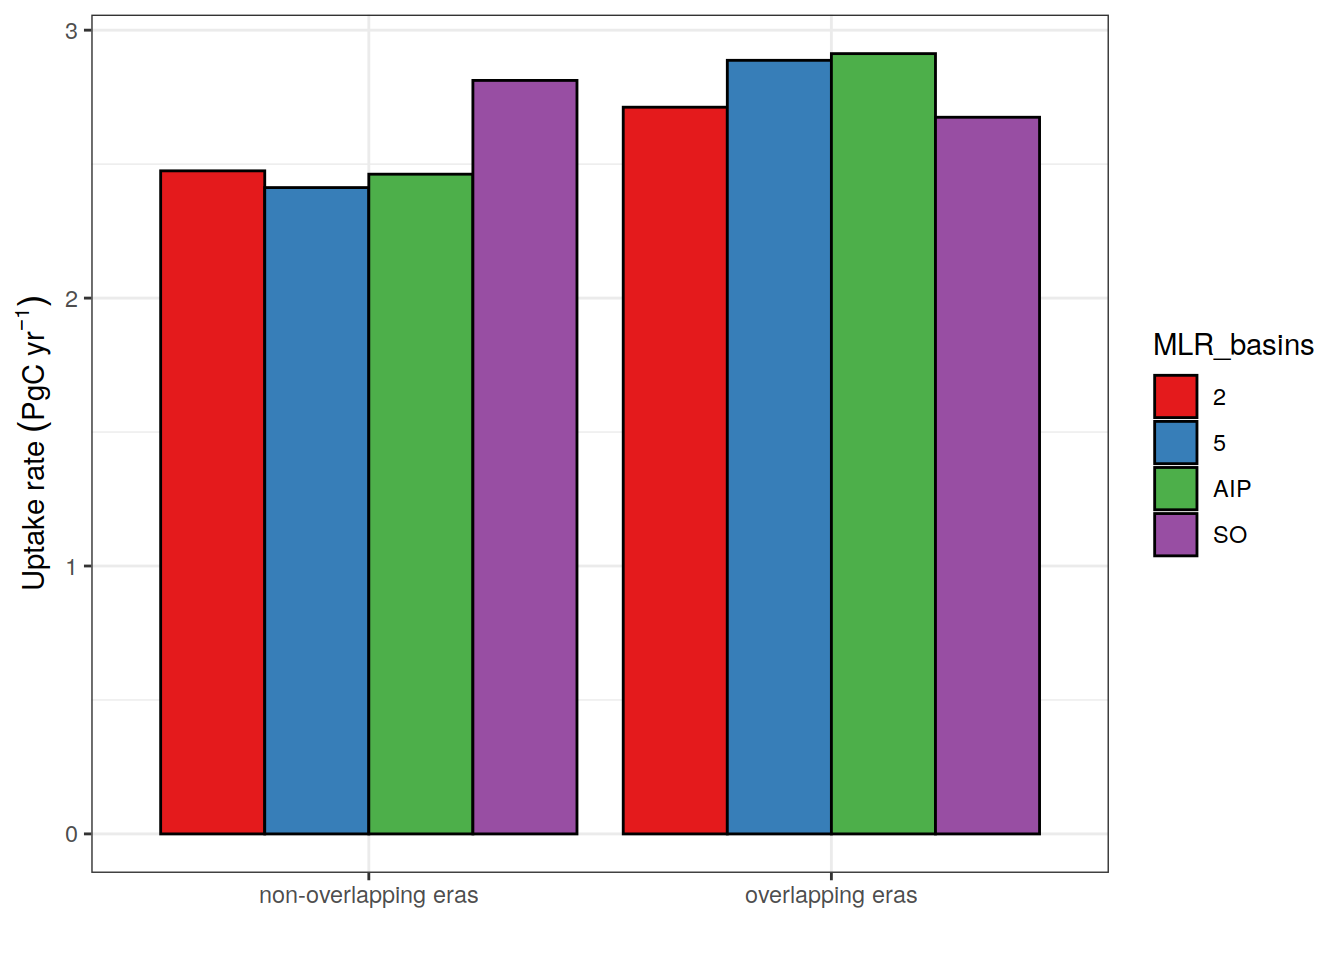
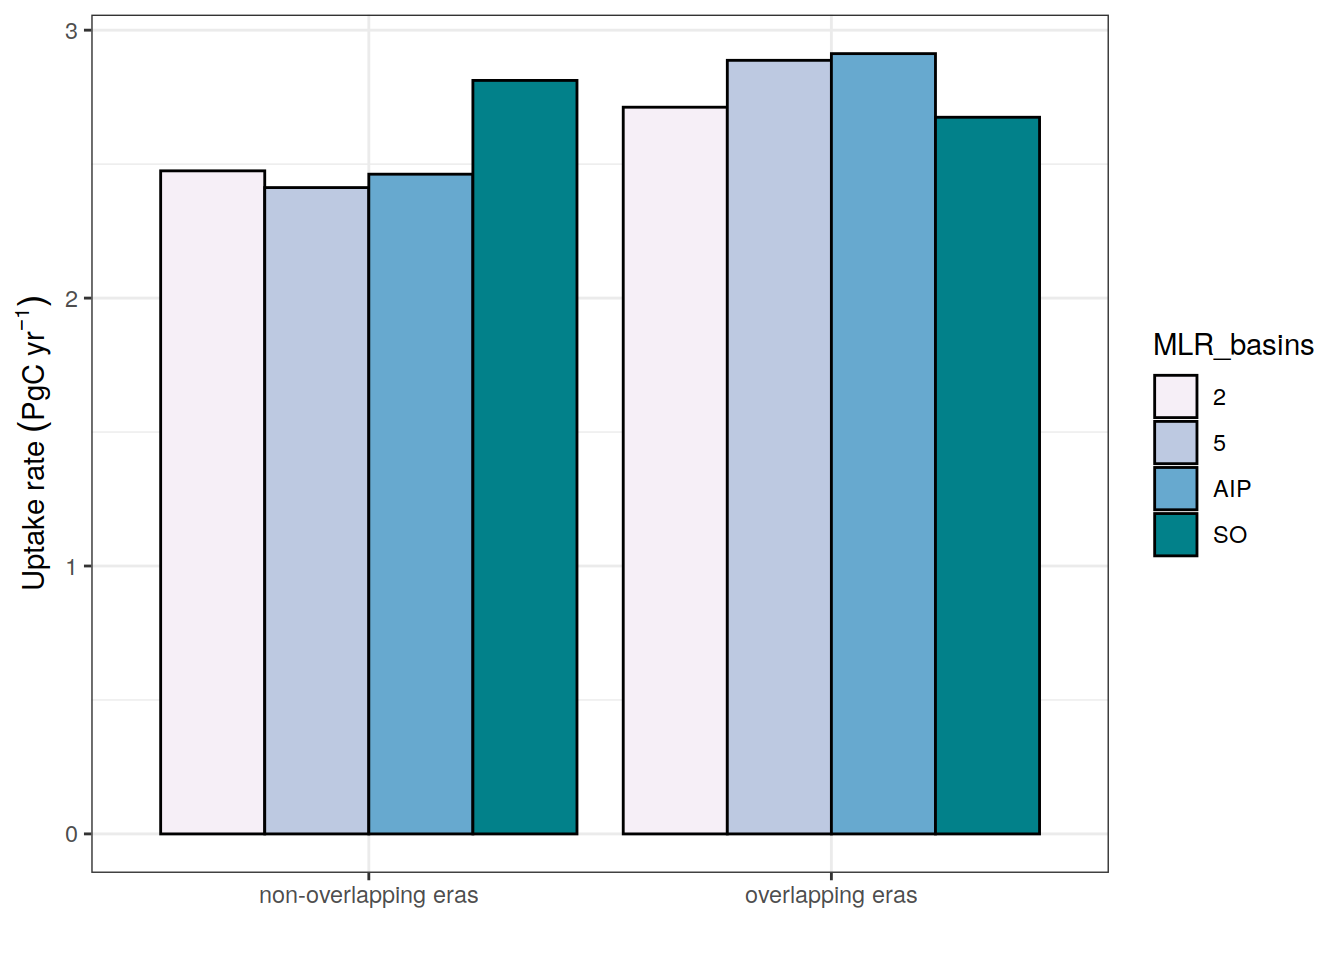
Build site.

diff --git a/docs/column_inventories.html b/docs/column_inventories.html
@@ -545,16 +545,16 @@ This reproducible <a href="http://rmarkdown.rstudio.com">R Markdown</a> analysis
 <div class="panel panel-default">
 <div class="panel-heading">
 <p class="panel-title">
-<a data-toggle="collapse" data-parent="#workflowr-checks" href="#strongRepositoryversionstrongahrefhttpsgithubcomjensdanielmuelleremlrobsanalysistree1b46b2aaad76d55915e740a46f77a5c0535a9dd0targetblank1b46b2aa"> <span class="glyphicon glyphicon-ok text-success" aria-hidden="true"></span> <strong>Repository version:</strong> <a href="https://github.com/jens-daniel-mueller/emlr_obs_analysis/tree/1b46b2aaad76d55915e740a46f77a5c0535a9dd0" target="_blank">1b46b2a</a> </a>
+<a data-toggle="collapse" data-parent="#workflowr-checks" href="#strongRepositoryversionstrongahrefhttpsgithubcomjensdanielmuelleremlrobsanalysistree2f6d0c08097d0d47375c1b2fe1197846e31bec86targetblank2f6d0c0a"> <span class="glyphicon glyphicon-ok text-success" aria-hidden="true"></span> <strong>Repository version:</strong> <a href="https://github.com/jens-daniel-mueller/emlr_obs_analysis/tree/2f6d0c08097d0d47375c1b2fe1197846e31bec86" target="_blank">2f6d0c0</a> </a>
 </p>
 </div>
[2 lines of base64/hex data omitted]
 <div class="panel-body">
 <p>
 Great! You are using Git for version control. Tracking code development and connecting the code version to the results is critical for reproducibility.
 </p>
 <p>
-The results in this page were generated with repository version <a href="https://github.com/jens-daniel-mueller/emlr_obs_analysis/tree/1b46b2aaad76d55915e740a46f77a5c0535a9dd0" target="_blank">1b46b2a</a>. See the <em>Past versions</em> tab to see a history of the changes made to the R Markdown and HTML files.
+The results in this page were generated with repository version <a href="https://github.com/jens-daniel-mueller/emlr_obs_analysis/tree/2f6d0c08097d0d47375c1b2fe1197846e31bec86" target="_blank">2f6d0c0</a>. See the <em>Past versions</em> tab to see a history of the changes made to the R Markdown and HTML files.
 </p>
 <p>
 Note that you need to be careful to ensure that all relevant files for the analysis have been committed to Git prior to generating the results (you can use <code>wflow_publish</code> or <code>wflow_git_commit</code>). workflowr only checks the R Markdown file, but you know if there are other scripts or data files that it depends on. Below is the status of the Git repository when the results were generated:
@@ -607,6 +607,40 @@ Message
 </tr>
 </thead>
 <tbody>
+<tr>
+<td>
+Rmd
+</td>
+<td>
+<a href="https://github.com/jens-daniel-mueller/emlr_obs_analysis/blob/2f6d0c08097d0d47375c1b2fe1197846e31bec86/analysis/column_inventories.Rmd" target="_blank">2f6d0c0</a>
+</td>
+<td>
+jens-daniel-mueller
+</td>
+<td>
+2021-05-28
+</td>
+<td>
+including cases 109-116
+</td>
+</tr>
+<tr>
+<td>
+html
+</td>
+<td>
+<a href="https://rawcdn.githack.com/jens-daniel-mueller/emlr_obs_analysis/3454b72a2fbb7bffc0c166de3e53036c71587a8d/docs/column_inventories.html" target="_blank">3454b72</a>
+</td>
+<td>
+jens-daniel-mueller
+</td>
+<td>
+2021-05-28
+</td>
+<td>
+Build site.
+</td>
+</tr>
 <tr>
 <td>
 Rmd
@@ -903,18 +937,13 @@ sensitivity case comparison included
 </div>
 </div>
 </div>
-<div id="data-sources" class="section level1" number="1">
-<h1 number="1"><span class="header-section-number">1</span> Data sources</h1>
-<p>Following Cant estimates are used:</p>
-<ul>
-<li>Zonal mean (basin, lat, depth)</li>
-<li>Inventories (lat, lon)</li>
-</ul>
+<div id="load-data" class="section level1" number="1">
+<h1 number="1"><span class="header-section-number">1</span> Load data</h1>
 <pre class="r"><code>Version_IDs &lt;- list.files(
   path = &quot;/nfs/kryo/work/jenmueller/emlr_cant/observations&quot;,
   pattern = &quot;v_1&quot;)
 
-Version_IDs &lt;- Version_IDs[1:8]
+# Version_IDs &lt;- Version_IDs[1:8]
 
 for (i_Version_IDs in Version_IDs) {
   # i_Version_IDs &lt;- Version_IDs[1]
@@ -950,7 +979,10 @@ for (i_Version_IDs in Version_IDs) {
   params_local &lt;- bind_cols(
     Version_ID = i_Version_IDs,
     MLR_basins = params_local$MLR_basins,
-    dup_era1 = str_c(params_local$dup_era1, collapse = &quot;-&quot;)
+    dup_era1 = str_c(params_local$dup_era1, collapse = &quot;-&quot;),
+    MLR_target = params_local$MLR_target,
+    CANYON_B_max = params_local$CANYON_B_max,
+    vif_max = params_local$vif_max
   )
   
   cant_inv &lt;- full_join(cant_inv, params_local)
@@ -981,7 +1013,15 @@ for (i_Version_IDs in Version_IDs) {
 [1] &quot;v_105&quot;
 [1] &quot;v_106&quot;
 [1] &quot;v_107&quot;
-[1] &quot;v_108&quot;</code></pre>
+[1] &quot;v_108&quot;
+[1] &quot;v_109&quot;
+[1] &quot;v_110&quot;
+[1] &quot;v_111&quot;
+[1] &quot;v_112&quot;
+[1] &quot;v_113&quot;
+[1] &quot;v_114&quot;
+[1] &quot;v_115&quot;
+[1] &quot;v_116&quot;</code></pre>
 <pre class="r"><code>rm(cant_inv)
 
 cant_inv_all &lt;- cant_inv_all %&gt;% 
@@ -990,13 +1030,59 @@ cant_inv_all &lt;- cant_inv_all %&gt;%
 <pre class="r"><code>cant_inv_all &lt;- cant_inv_all %&gt;%
   filter(inv_depth == params_global$inventory_depth_standard)</code></pre>
 <pre class="r"><code>cant_inv_all_bias &lt;- cant_inv_all %&gt;%
-  select(lat, lon, data_source, Version_ID, era_duplication, MLR_basins, cant_inv) %&gt;%
+  select(lat, lon, data_source, cant_inv, Version_ID, 
+         era_duplication, MLR_basins,
+         MLR_target, CANYON_B_max, vif_max) %&gt;%
   pivot_wider(names_from = data_source,
               values_from = cant_inv) %&gt;%
   mutate(cant_bias = mod - mod_truth) %&gt;%
-  drop_na()
+  drop_na()</code></pre>
+<pre class="r"><code>cant_inv_budget &lt;- cant_inv_all %&gt;% 
+  mutate(surface_area = earth_surf(lat, lon),
+         cant_inv_grid = cant_inv*surface_area,
+         cant_pos_inv_grid = cant_pos_inv*surface_area) %&gt;% 
+  group_by(basin_AIP, data_source,
+           Version_ID, MLR_basins,
+           era_duplication, duration,
+           MLR_target, CANYON_B_max, vif_max) %&gt;% 
+  summarise(cant_total = sum(cant_inv_grid)*12*1e-15,
+            cant_total = round(cant_total,1),
+            cant_pos_total = sum(cant_pos_inv_grid)*12*1e-15,
+            cant_pos_total = round(cant_pos_total,1)) %&gt;% 
+  ungroup()
 
-cant_inv_all_bias %&gt;%
+cant_inv_budget %&gt;%
+  group_by(data_source, Version_ID) %&gt;%
+  summarise(cant_total = sum(cant_total),
+            cant_total = round(cant_total,1),
+            cant_pos_total = sum(cant_pos_total),
+            cant_pos_total = round(cant_pos_total,1),
+            cant_total_rate = cant_total / duration,
+            cant_pos_total_rate = cant_pos_total / duration) %&gt;%
+  ungroup()</code></pre>
+<pre><code># A tibble: 144 x 6
+   data_source Version_ID cant_total cant_pos_total cant_total_rate
+   &lt;chr&gt;       &lt;chr&gt;           &lt;dbl&gt;          &lt;dbl&gt;           &lt;dbl&gt;
+ 1 mod         v_101            14.3           16              1.79
+ 2 mod         v_101            14.3           16              1.79
+ 3 mod         v_101            14.3           16              1.79
+ 4 mod         v_102            19.2           20.3            2.4 
+ 5 mod         v_102            19.2           20.3            2.4 
+ 6 mod         v_102            19.2           20.3            2.4 
+ 7 mod         v_103            18.8           20.1            2.35
+ 8 mod         v_103            18.8           20.1            2.35
+ 9 mod         v_103            18.8           20.1            2.35
+10 mod         v_104            17.2           18              2.15
+# … with 134 more rows, and 1 more variable: cant_pos_total_rate &lt;dbl&gt;</code></pre>
+</div>
+<div id="mlr-regions-and-era-overlap" class="section level1" number="2">
+<h1 number="2"><span class="header-section-number">2</span> MLR regions and era overlap</h1>
+<div id="column-inventories" class="section level2" number="2.1">
+<h2 number="2.1"><span class="header-section-number">2.1</span> Column inventories</h2>
+<pre class="r"><code>cant_inv_all_bias_sub &lt;- cant_inv_all_bias %&gt;%
+  filter(Version_ID %in% Version_IDs[1:8])
+
+cant_inv_all_bias_sub %&gt;% 
   p_map_cant_inv(var = &quot;obs&quot;,
                  col = &quot;divergent&quot;,
                  subtitle_text = &quot;data_source: observations&quot;) +
@@ -1083,7 +1169,7 @@ jens-daniel-mueller
 </table>
 </div>
 </div>
-<pre class="r"><code>cant_inv_all_bias %&gt;%
+<pre class="r"><code>cant_inv_all_bias_sub %&gt;%
   p_map_cant_inv(var = &quot;cant_bias&quot;,
                  col = &quot;bias&quot;,
                  subtitle_text = &quot;data_source: mod - mod_truth&quot;) +
@@ -1159,41 +1245,16 @@ jens-daniel-mueller
 </table>
 </div>
 </div>
-<pre class="r"><code>cant_inv_budget &lt;- cant_inv_all %&gt;% 
-  mutate(surface_area = earth_surf(lat, lon),
-         cant_inv_grid = cant_inv*surface_area,
-         cant_pos_inv_grid = cant_pos_inv*surface_area) %&gt;% 
-  group_by(basin_AIP, data_source, Version_ID, MLR_basins, era_duplication, duration) %&gt;% 
-  summarise(cant_total = sum(cant_inv_grid)*12*1e-15,
-            cant_total = round(cant_total,1),
-            cant_pos_total = sum(cant_pos_inv_grid)*12*1e-15,
-            cant_pos_total = round(cant_pos_total,1)) %&gt;% 
-  ungroup()
+<pre class="r"><code>rm(cant_inv_all_bias_sub)</code></pre>
+</div>
+<div id="budgets" class="section level2" number="2.2">
+<h2 number="2.2"><span class="header-section-number">2.2</span> Budgets</h2>
+<div id="regional" class="section level3" number="2.2.1">
+<h3 number="2.2.1"><span class="header-section-number">2.2.1</span> Regional</h3>
+<pre class="r"><code>cant_inv_budget_sub &lt;- cant_inv_budget %&gt;%
+  filter(Version_ID %in% Version_IDs[1:8])
 
-cant_inv_budget %&gt;%
-  group_by(data_source, Version_ID) %&gt;%
-  summarise(cant_total = sum(cant_total),
-            cant_total = round(cant_total,1),
-            cant_pos_total = sum(cant_pos_total),
-            cant_pos_total = round(cant_pos_total,1),
-            cant_total_rate = cant_total / duration,
-            cant_pos_total_rate = cant_pos_total / duration) %&gt;%
-  ungroup()</code></pre>
-<pre><code># A tibble: 72 x 6
-   data_source Version_ID cant_total cant_pos_total cant_total_rate
-   &lt;chr&gt;       &lt;chr&gt;           &lt;dbl&gt;          &lt;dbl&gt;           &lt;dbl&gt;
- 1 mod         v_101            14.3           16              1.79
- 2 mod         v_101            14.3           16              1.79
- 3 mod         v_101            14.3           16              1.79
- 4 mod         v_102            19.2           20.3            2.4 
- 5 mod         v_102            19.2           20.3            2.4 
- 6 mod         v_102            19.2           20.3            2.4 
- 7 mod         v_103            18.8           20.1            2.35
- 8 mod         v_103            18.8           20.1            2.35
- 9 mod         v_103            18.8           20.1            2.35
-10 mod         v_104            17.2           18              2.15
-# … with 62 more rows, and 1 more variable: cant_pos_total_rate &lt;dbl&gt;</code></pre>
-<pre class="r"><code>cant_inv_budget %&gt;%
+cant_inv_budget_sub %&gt;%
   ggplot(aes(data_source, cant_total/duration, fill = basin_AIP)) +
   scale_fill_brewer(palette = &quot;Dark2&quot;) +
   geom_col() +
@@ -1248,7 +1309,10 @@ jens-daniel-mueller
 </table>
 </div>
 </div>
-<pre class="r"><code>cant_inv_budget %&gt;%
+</div>
+<div id="global" class="section level3" number="2.2.2">
+<h3 number="2.2.2"><span class="header-section-number">2.2.2</span> Global</h3>
+<pre class="r"><code>cant_inv_budget_sub %&gt;%
   filter(data_source == &quot;obs&quot;) %&gt;% 
   group_by(MLR_basins, era_duplication) %&gt;% 
   summarise(rate = sum(cant_total/duration)) %&gt;% 
@@ -1258,7 +1322,7 @@ jens-daniel-mueller
   scale_y_continuous() +
   labs(y = expression(Uptake~rate ~ (PgC ~ yr ^ {-1})),
        x = &quot;&quot;) +
-  scale_fill_brewer(palette = &quot;Set1&quot;)</code></pre>
+  scale_fill_brewer(palette = &quot;PuBuGn&quot;)</code></pre>
 <p><img src="figure/column_inventories.Rmd/budget_global-1.png" width="672" style="display: block; margin: auto;" /></p>
 <p>
 <button type="button" class="btn btn-default btn-xs btn-workflowr btn-workflowr-fig" data-toggle="collapse" data-target="#fig-budget_global-1">
@@ -1308,113 +1372,14 @@ jens-daniel-mueller
 </table>
 </div>
 </div>
+<pre class="r"><code>rm(cant_inv_all_bias_sub)</code></pre>
 </div>
-<div id="data-sources-1" class="section level1" number="2">
-<h1 number="2"><span class="header-section-number">2</span> Data sources</h1>
-<p>Following Cant estimates are used:</p>
-<ul>
-<li>Zonal mean (basin, lat, depth)</li>
-<li>Inventories (lat, lon)</li>
-</ul>
-<pre class="r"><code>Version_IDs &lt;- list.files(
-  path = &quot;/nfs/kryo/work/jenmueller/emlr_cant/observations&quot;,
-  pattern = &quot;v_1&quot;)
-
-Version_IDs &lt;- Version_IDs[9:16]
-
-for (i_Version_IDs in Version_IDs) {
-  # i_Version_IDs &lt;- Version_IDs[1]
-  
-  print(i_Version_IDs)
-  
-  path_version_data     &lt;-
-  paste(path_observations,
-        i_Version_IDs,
-        &quot;/data/&quot;,
-        sep = &quot;&quot;)
-  
-  cant_inv &lt;-
-    read_csv(paste(path_version_data,
-                   &quot;cant_inv.csv&quot;,
-                   sep = &quot;&quot;))
-  
-  cant_inv_mod_truth &lt;-
-    read_csv(paste(path_version_data,
-                   &quot;cant_inv_mod_truth.csv&quot;,
-                   sep = &quot;&quot;))
-  
-  cant_inv &lt;- bind_rows(cant_inv, cant_inv_mod_truth)
-  
-  cant_inv &lt;- cant_inv %&gt;% 
-    mutate(Version_ID = i_Version_IDs)
-  
-  params_local &lt;-
-    read_rds(paste(path_version_data,
-                   &quot;params_local.rds&quot;,
-                   sep = &quot;&quot;))
-  
-  params_local &lt;- bind_cols(
-    Version_ID = i_Version_IDs,
-    MLR_target = params_local$MLR_target,
-    CANYON_B_max = params_local$CANYON_B_max,
-    vif_max = params_local$vif_max
-  )
-  
-  cant_inv &lt;- full_join(cant_inv, params_local)
-  
-  tref &lt;- read_csv(paste(path_version_data,
-                         &quot;tref.csv&quot;,
-                         sep = &quot;&quot;))
-  
-  duration &lt;- sort(tref$median_year)[2] - sort(tref$median_year)[1]
-  
-  cant_inv &lt;- cant_inv %&gt;% 
-    mutate(duration = duration)
-  
-  if (exists(&quot;cant_inv_all&quot;)) {
-    cant_inv_all &lt;- bind_rows(cant_inv_all, cant_inv)
-  }
-  
-  if (!exists(&quot;cant_inv_all&quot;)) {
-    cant_inv_all &lt;- cant_inv
-  }
-  
-  
-}</code></pre>
-<pre><code>[1] &quot;v_109&quot;
-[1] &quot;v_110&quot;
-[1] &quot;v_111&quot;
-[1] &quot;v_112&quot;
-[1] &quot;v_113&quot;
-[1] &quot;v_114&quot;
-[1] &quot;v_115&quot;
-[1] &quot;v_116&quot;</code></pre>
-<pre class="r"><code>rm(cant_inv)</code></pre>
-<pre class="r"><code>cant_inv_all &lt;- cant_inv_all %&gt;%
-  filter(inv_depth == params_global$inventory_depth_standard)</code></pre>
-<pre class="r"><code>cant_inv_all_bias &lt;- cant_inv_all %&gt;%
-  select(lat, lon, data_source, Version_ID, cant_inv) %&gt;%
-  pivot_wider(names_from = data_source,
-              values_from = cant_inv) %&gt;%
-  mutate(cant_bias = mod - mod_truth) %&gt;%
-  drop_na()
-
-cant_inv_all_bias %&gt;%
-  p_map_cant_inv(var = &quot;obs&quot;,
-                 col = &quot;divergent&quot;,
-                 subtitle_text = &quot;data_source: observations&quot;) +
-  facet_wrap(~ Version_ID)</code></pre>
-<p><img src="figure/column_inventories.Rmd/column_inventory_maps_output_subsetting-1.png" width="672" style="display: block; margin: auto;" /></p>
-<pre class="r"><code>  # facet_grid(MLR_basins ~ era_duplication)
-
-
-cant_inv_all_bias %&gt;%
-  p_map_cant_inv(var = &quot;cant_bias&quot;,
-                 col = &quot;bias&quot;,
-                 subtitle_text = &quot;data_source: mod - mod_truth&quot;) +
-  # facet_grid(MLR_basins ~ era_duplication) +
-  facet_wrap(~ Version_ID)</code></pre>
-<p><img src="figure/column_inventories.Rmd/column_inventory_maps_output_subsetting-2.png" width="672" style="display: block; margin: auto;" /></p>
+</div>
+</div>
+<div id="cleaning-operations" class="section level1" number="3">
+<h1 number="3"><span class="header-section-number">3</span> Cleaning operations</h1>
+<div id="canyon-b" class="section level2" number="3.1">
+<h2 number="3.1"><span class="header-section-number">3.1</span> CANYON-B</h2>
 <br>
 <p>
 <button type="button" class="btn btn-default btn-workflowr btn-workflowr-sessioninfo" data-toggle="collapse" data-target="#workflowr-sessioninfo" style="display: block;">
@@ -1473,6 +1438,7 @@ loaded via a namespace (and not attached):
 [64] rprojroot_2.0.2          stringi_1.5.3            parallel_4.0.3          
 [67] Rcpp_1.0.5               vctrs_0.3.5              dbplyr_1.4.4            
 [70] tidyselect_1.1.0         xfun_0.18               </code></pre>
+</div>
 </div>
 </div>
 
